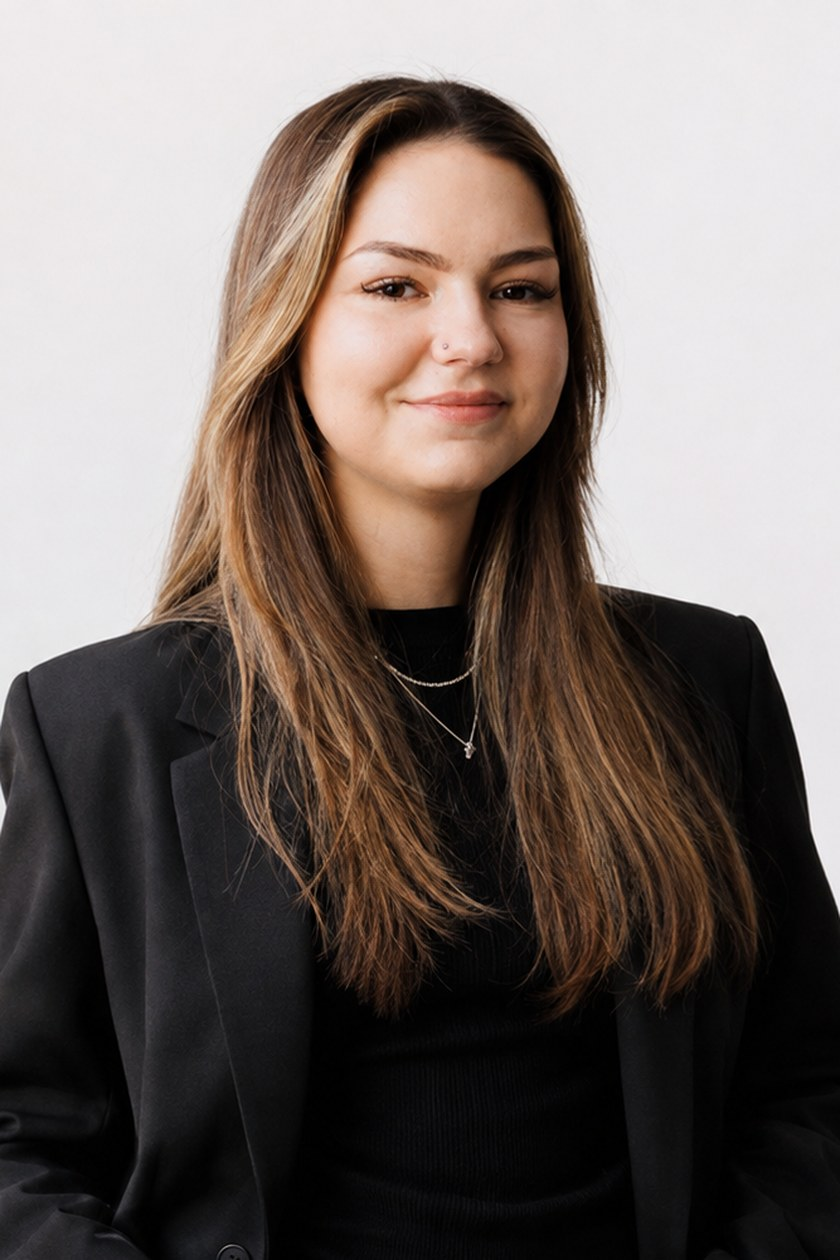
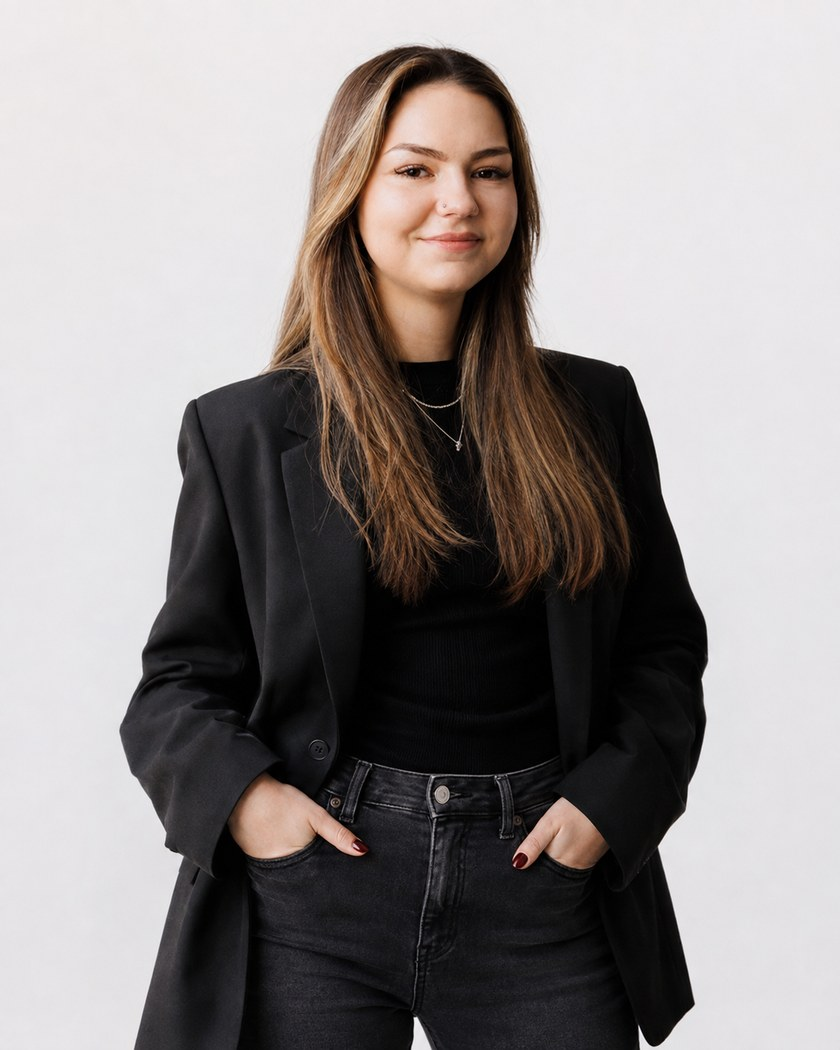
Pias Portrait ungeschnitten, damit das ganze Bild steht
- Kein Ausschnitt mehr: das Original geht nur noch verkleinert rein
  (1122x1402 -> 840x1050, Verhaeltnis 0.80 statt 2:3). Im offenen
  Streifen (Verhaeltnis 0.72) bleiben damit rund 90 Prozent der
  Bildbreite und die volle Hoehe stehen — Kopf bis Huefte, beide Arme,
  der ganze Blazer.
- --bildpos:51% 50%. Bei diesem Seitenverhaeltnis skaliert object-fit
  in beiden Zustaenden nach der Hoehe, senkrecht wird also gar nichts
  beschnitten; nur der waagrechte Wert zaehlt. Ihre Bildmitte liegt bei
  51 Prozent, damit sitzt sie auch im schmalen Streifen mittig.
- --ton bleibt .85. Mit dem groesseren Hintergrundanteil nochmals
  gegen 1 und .78 geprueft: bei .78 sackt das Gesicht ab, bei 1 ist der
  Studiohintergrund wieder fast weiss.

Rauchtest: Sektionen vollzaehlig, keine Konsolenfehler, kein Querlauf
(1585/1600), Hoehe unveraendert 14008.

diff --git a/index.html b/index.html
@@ -326,7 +326,7 @@
           <img src="bilder/portrait-1.jpg" alt="">
           <span class="lamelle__schild"><b>Dušan</b><i>Gründer</i></span>
         </button>
-        <button class="lamelle" type="button" aria-pressed="false" style="--bildpos:50% 26%;--ton:.85">
+        <button class="lamelle" type="button" aria-pressed="false" style="--bildpos:51% 50%;--ton:.85">
           <img src="bilder/portrait-2.jpg" alt="">
           <span class="lamelle__schild"><b>Pia</b><i>Marketing Manager</i></span>
         </button>
